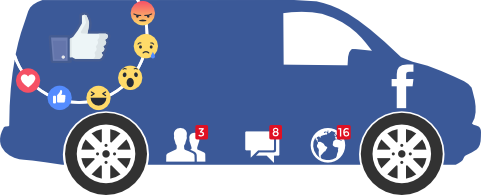
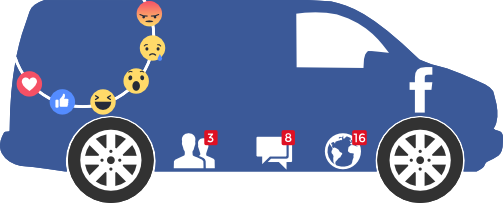
add facebook like easter egg

diff --git a/index.html b/index.html
@@ -38,7 +38,8 @@
     <div class="heroContent ">
       <h1 id="heroText" class="animated fadeIn fadeFirst"><b>Automata Advertising</b></h1>
             <h3 id="heroSubtext" class="animated fadeIn fadeFirst"></h3>
-            <p id="heroDesc" class="animated fadeIn fadeFirst">Your Brand, on <em>Ubers</em></p>
+            <!-- <p id="heroDesc" class="animated fadeIn fadeFirst">ADVERTISING THAT DRIVES ITSELF</p> -->
+            <p id="heroDesc" class="animated fadeIn fadeFirst">Advertising That Drives Itself</p>
       <a href="#cars" class="btn sponsorBtnLink animated fadeInUp fadeSecond">FIND OUT MORE</a>
     </div>
 
@@ -49,7 +50,7 @@
       <div class="row">
         <div class="col-md-12">
           <div class="linesWordContainer">
-            <h2 class="sectionHeader">Advertising directly on Uber vehicles</h2>
+            <h2 class="sectionHeader">Your Brand, on <em>Ubers</em></h2>
           </div>
           <div class="row" id="car_row">
             <div class="col-md-3">
@@ -59,6 +60,7 @@
             </div>
             <div class="col-md-6">
               <div class="car_model" id="main_car">
+                <a id="like" href="https://google.com"><img src="img/cars/like.png"></a>
                 <img id="van" src="img/cars/uber.png" alt="van"/>
               </div>
             </div>
@@ -113,16 +115,17 @@
           <div class="row" id="driver_stats">
             <div class="col-md-6 col-md-offset-3">
               <p class="sectionText center_text">
-                <b>15,000+</b> Drivers in New York City<br>
-                <b>15,000+</b> Driver in San Francisco<br>
+                <b>15,000+</b> drivers in New York City<br>
+                <b>15,000+</b> driver in San Francisco
               </p>
             </div>
           </div>
-          <p class="sectionText center_text"><br><em style="color:#c03939;">Automata</em> brings your brand to the people.</p>
+          <h3 class="center_text"><br><em style="color:#dd1021;">Automata</em> brings your brand to the people.</h3>
 
         </div>
         <div class="col-md-4">
             <div class="row">
+              <div><h4 id="chart_title">Drivers per City</h6></div>
               <canvas id="chart" width="400" height="400"></canvas>
             </div>
             <div class="row">

diff --git a/js/main.js b/js/main.js
@@ -1,6 +1,7 @@
 var pepsi_seen = false;
 document.getElementById('inquiry_btn').style.visibility="hidden";
 document.getElementById('brand_button_row').style.visibility="hidden";
+document.getElementById('like').style.visibility="hidden";
 
 
 function showBtn(){
@@ -35,21 +36,13 @@ $('.bran_button_img').click(function(){
 	}
   //handle facebook like easter egg
   else if(brandSrc == "img/brand_buttons/facebook.png"){
-    var like = document.getElementById('like');
-    if (like == null){
-      like = document.createElement('a');
-      like.setAttribute("id", "like");
-      like.setAttribute("href", "google.com");
-      var main = document.getElementById('main_car');
-      main.appendChild(like);
-    }
     van.src = "img/cars/" + brandSrc.substring(brandSrc.lastIndexOf('/')+1);
+    $("#like").addClass("animated tada");  
+    document.getElementById("like").style.visibility="visible";  
   }
 	else{
-    var main = document.getElementById('main_car');
-    var like = document.getElementById('like');
-    if (like != null)
-      main.removeChild(like);
+    $("#like").removeClass("animated tada");
+    document.getElementById("like").style.visibility="hidden";
 		van.src = "img/cars/" + brandSrc.substring(brandSrc.lastIndexOf('/')+1);
 	}
 		

diff --git a/css/main.css b/css/main.css
@@ -534,8 +534,8 @@ body {
   clear: both;
 }
 #main_car{
-  height: 100%; /*195px;*/
-  width: 100%; /*481px;*/
+  height: 195px;
+  width: 481px;
 }
 
 #left_car{
@@ -608,11 +608,15 @@ body {
   width: 10px;
   height: 10px
 }
+#chart_title{
+  margin: 0;
+  color: #666;
+}
 
 #like{
   position: absolute;
-  top: 7%;
-  left: 10%;
+  top: 6%;
+  left: 9%;
   height: 50px;
   width: 60px;
   z-index: 100;
